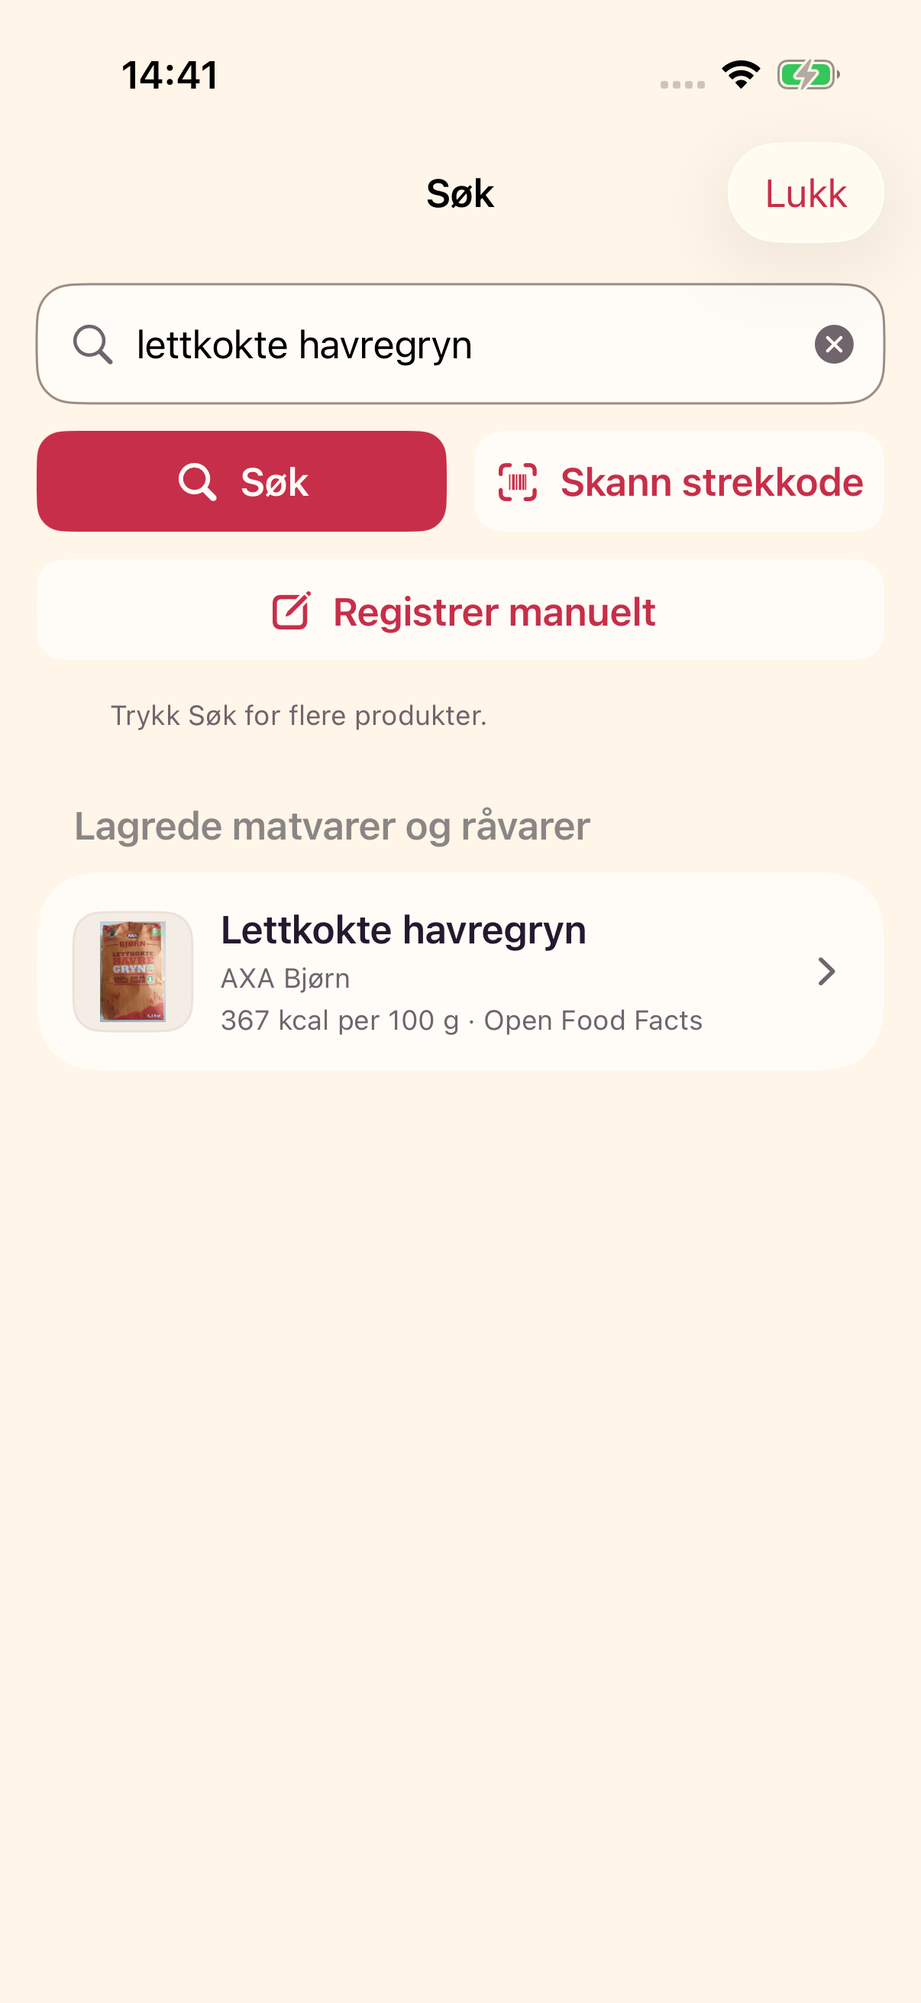
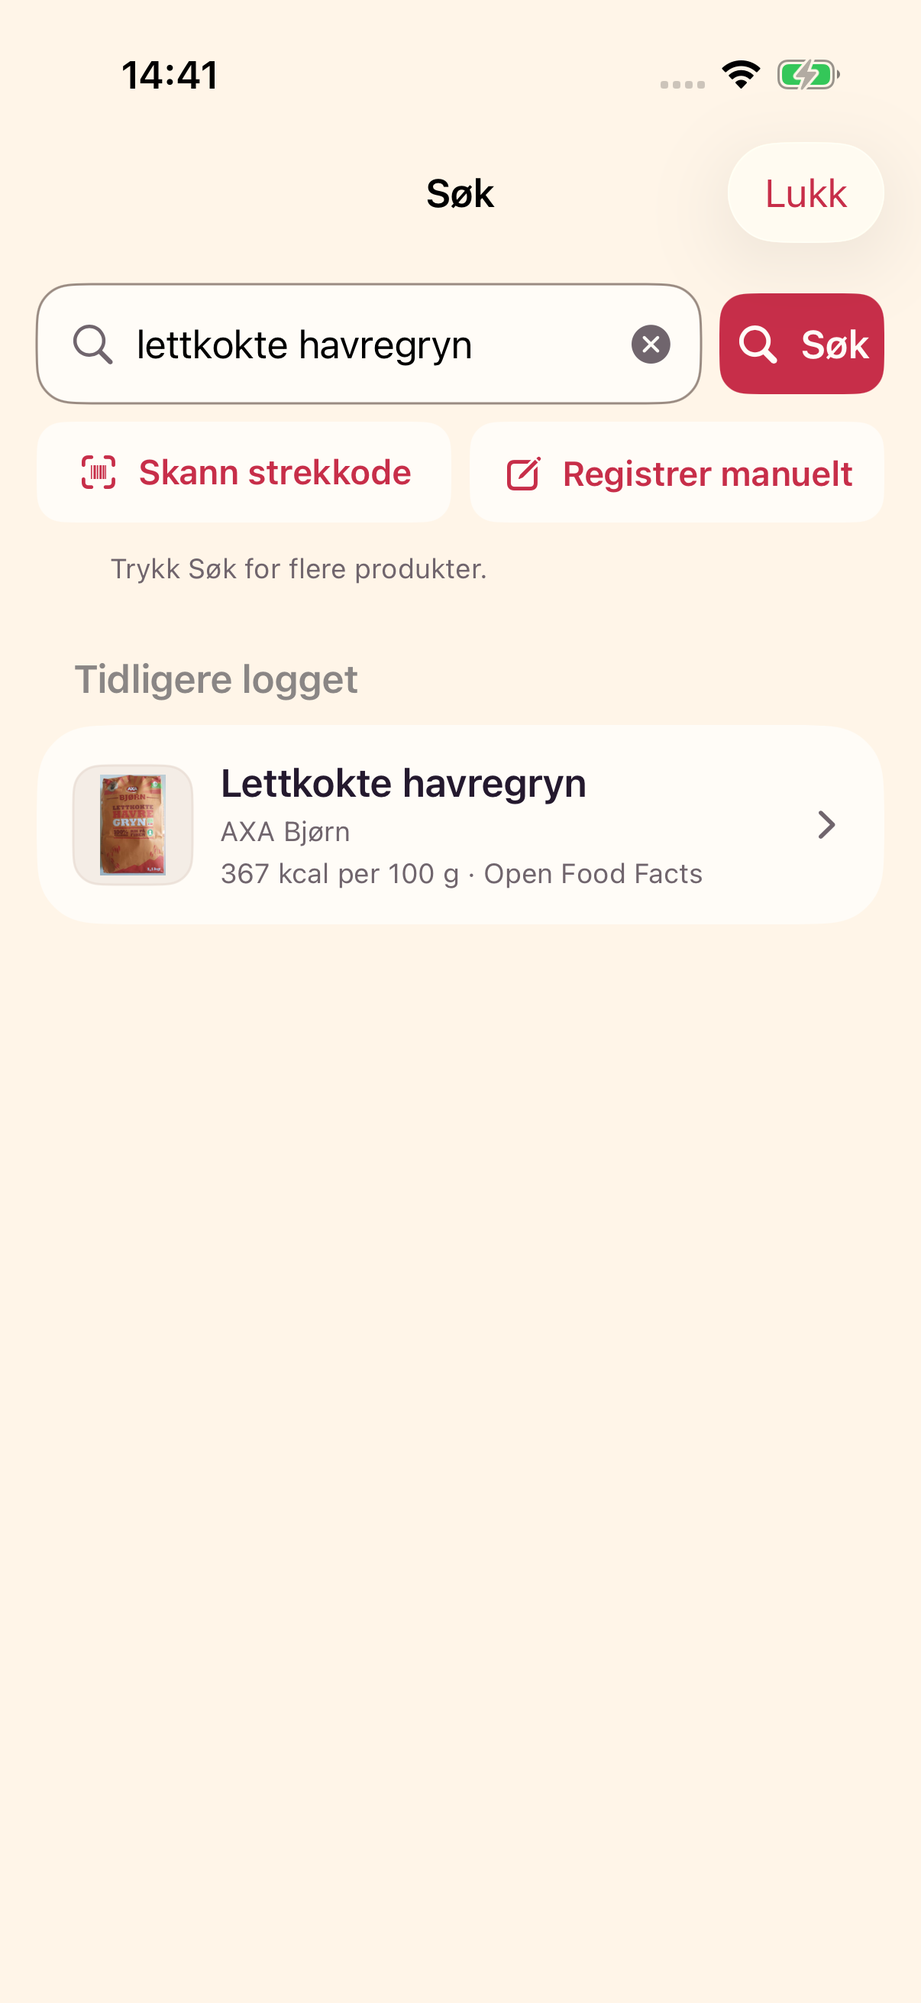
Update landing page to reflect current MatLogg app

diff --git a/matlogg-web/src/PrivacyPage.tsx b/matlogg-web/src/PrivacyPage.tsx
@@ -9,14 +9,15 @@ export default function PrivacyPage() {
     <header className="border-b"><div className="mx-auto flex max-w-3xl items-center justify-between gap-4 px-5 py-5"><a href="./" className="flex min-h-11 items-center gap-2 font-bold"><img src="./matlogg-logo.png" alt="" width="40" height="40" className="rounded-xl" />MatLogg</a><a href="./" className="btn-ghost">Til forsiden</a></div></header>
     <main id="main" className="mx-auto max-w-3xl px-5 py-12">
       <p className="eyebrow">Personvern</p><h1 className="mt-3 text-4xl font-bold tracking-tight">Personvernet ditt i MatLogg</h1>
-      <p className="mt-4 text-muted-foreground">Sist oppdatert: 8. oktober 2026</p>
+      <p className="mt-4 text-muted-foreground">Sist oppdatert: 2. november 2026</p>
       <p className="my-8 leading-relaxed">Denne siden beskriver nettsiden, lokal bruk av appen og valgfri konto. Betapåmelding er ikke åpnet. Skysynk og gjenoppretting mellom enheter er ikke tilgjengelig. Før nye tjenester tas i bruk, oppdaterer vi informasjonen om behandlingen.</p>
       <Section title="Hvem er ansvarlig?"><p>Nithusan Krishnasamymudali er behandlingsansvarlig for MatLogg, inkludert konto, nettsiden og henvendelser.</p><p>Kontakt: <a className="underline" href="mailto:nithusank.2002@gmail.com">nithusank.2002@gmail.com</a>. Unngå å sende matlogger, vekt eller andre helseopplysninger på vanlig e-post.</p></Section>
       <Section title="Når du besøker nettsiden"><p>Nettsiden har ingen analyseverktøy, reklamesporing, informasjonskapsler eller skjemaer som samler inn opplysninger. Det er ingen betapåmelding på siden. Demoens knapper bytter bare mellom appbilder; de registrerer ingen mat eller opplysninger. Bilder fra appen viser fiktive demodata.</p><p>Siden leveres gjennom GitHub Pages. Ved lasting mottar vertstjenesten tekniske opplysninger som IP-adresse og informasjon om forespørselen. GitHub beskriver sin behandling, lagring og eventuelle overføringer utenfor EØS i <a className="underline" href="https://docs.github.com/en/site-policy/privacy-policies/github-general-privacy-statement">sin personvernerklæring</a>. Vi har ikke et eget system for besøksstatistikk eller besøkslogger.</p></Section>
-      <Section title="Hva appen lagrer lokalt"><p>Du kan bruke MatLogg uten konto. Matlogger, mengder, måltider, vannregistreringer, favoritter, lagrede måltider, skannehistorikk og innstillinger lagres på iPhonen. Personlige detaljer, mål og vekt lagres dersom du velger å registrere dem. Fødselsdato er påkrevd dersom du velger å lagre Personlige detaljer i dagens appversjon; øvrige felt er valgfrie.</p><p>Opplysningene brukes til funksjonene du velger: logging, historikk, gjenbruk av måltider og oversikt. Vekt, mål og spisehistorikk kan være sensitive. Lokal logging lastes ikke automatisk opp; skysynk er deaktivert i den gjeldende versjonen. MatLogg tilbyr foreløpig ikke gjenoppretting eller synk mellom enheter.</p><p>Vi har ikke tilgang til matloggen som bare ligger på enheten din. Enhetens eventuelle sikkerhetskopier styres av dine Apple-/iOS-innstillinger.</p></Section>
+      <Section title="Hva appen lagrer lokalt"><p>Du kan bruke MatLogg uten konto. Matlogger, mengder, måltider, vannregistreringer, favoritter, lagrede måltider, skannehistorikk og innstillinger lagres på iPhonen. Personlige detaljer, mål og vekt lagres dersom du velger å registrere dem. Fødselsdato og øvrige felt i Personlige detaljer er valgfrie. Automatiske målforslag krever et komplett, støttet beregningsgrunnlag for voksne.</p><p>Opplysningene brukes til funksjonene du velger: logging, historikk, gjenbruk av måltider og oversikt. Vekt, mål og spisehistorikk kan være sensitive. Lokal logging lastes ikke automatisk opp; skysynk er deaktivert i den gjeldende versjonen. MatLogg tilbyr foreløpig ikke gjenoppretting eller synk mellom enheter.</p><p>Vi har ikke tilgang til matloggen som bare ligger på enheten din. Enhetens eventuelle sikkerhetskopier styres av dine Apple-/iOS-innstillinger.</p></Section>
       <Section title="Valgfri konto og innlogging"><p>MatLogg kan brukes uten konto. Hvis du oppretter konto med e-post og passord eller logger inn med Apple, bruker vi Supabase Auth til å håndtere e-postadresse, bruker-ID, innloggingsidentitet og sikker passordhåndtering. Vi mottar ikke Apple-passordet ditt og lagrer ikke passord i klartekst. Supabase brukes som databehandler for konto og autentisering.</p><p>Konto og autentisering behandles for å levere tjenesten (GDPR artikkel 6 nr. 1 bokstav b). En konto gir foreløpig ikke skybackup av matlogger, mål, vekt eller bilder. Et valgfritt visningsnavn og navn du deler med Apple, håndteres lokalt i appen; MatLogg sender ikke Apple-navnet til Supabase.</p><p>Skysynk av helseopplysninger er deaktivert. Før slik opplasting åpnes, må grunnlaget etter både artikkel 6 og artikkel 9 være avklart og dokumentert. Nødvendige valg eller uttrykkelig samtykke skal innhentes før opplasting dersom samtykke brukes.</p></Section>
-      <Section title="Matsøk og eksterne oppslag"><p>Råvarene fra Matvaretabellen følger med appen og søkes lokalt. Ved et aktivt søk etter merkevarer eller skanning sendes søketeksten eller strekkoden til Open Food Facts for å hente produktinformasjon. Søketekst sendes ikke for hvert tastetrykk. Fra GS1 Data Matrix brukes bare produktnummeret; lotnummer og dato sendes ikke.</p><p>Open Food Facts mottar også vanlig tilkoblingsinformasjon, som IP-adresse og appidentifikasjon. Selve matloggen, vekten og målene følger ikke med disse oppslagene. Se <a className="underline" href="https://world.openfoodfacts.org/privacy">Open Food Facts sin personvernerklæring</a>. Produktdata kan mellomlagres lokalt for raskere oppslag.</p></Section>
+      <Section title="Matsøk og eksterne oppslag"><p>Råvarene fra Matvaretabellen følger med appen og søkes lokalt. Ved et aktivt søk etter merkevarer eller skanning sendes søketeksten eller strekkoden til Open Food Facts for å hente produktinformasjon. Søketekst sendes ikke for hvert tastetrykk. Fra GS1 Data Matrix brukes bare produktnummeret; lotnummer og dato sendes ikke.</p><p>Open Food Facts mottar også vanlig tilkoblingsinformasjon, som IP-adresse og appidentifikasjon. Selve matloggen, vekten og målene følger ikke med disse oppslagene. Se <a className="underline" href="https://world.openfoodfacts.org/privacy">Open Food Facts sin personvernerklæring</a>. Produktdata kan mellomlagres lokalt for raskere oppslag. Eldre lagrede strekkodetreff kan oppdateres fra Open Food Facts når de brukes. Produktbilder kan hentes fra katalogens bildeserver når de ikke finnes i lokal cache; serveren mottar da IP-adressen og forespørselen om bildet.</p></Section>
       <Section title="Kamera, bilder og analyse"><p>Kameraet brukes når du starter skanning eller tar et produktbilde, etter iOS sin tillatelse. Du kan også velge ett bilde med systemets bildevelger. Produktbilder lagres lokalt, uten original fotometadata, og lastes ikke opp eller synkroniseres.</p><p>Det er ikke koblet inn et SDK for bruksanalyse eller krasjrapportering i den gjeldende appversjonen. Eventuelle valg i appen betyr derfor ikke at slike data sendes nå. Vi selger ikke personopplysninger og bruker dem ikke til annonsesporing.</p></Section>
+      <Section title="Når du deler et måltid"><p>Appen lager måltidskort lokalt med måltidsnavn, valgfritt bilde og næringsverdiene du velger å vise. Kortet inneholder ikke profilinformasjon, mål, vekt eller original fotometadata. MatLogg laster ikke kortet opp til en server. Du velger mottaker i iOS sitt delingsark; videre behandling følger tjenesten du deler til.</p><p>«Lagre bilde» ber bare om tillatelse til å legge kortet til i Bilder, uten å lese bildebiblioteket. Kopien ligger utenfor MatLogg og slettes ikke når appdata fjernes. Bruker du iCloud Bilder, kan Apple synkronisere kopien etter dine innstillinger.</p></Section>
       <Section title="Henvendelser, formål og behandlingsgrunnlag"><p>Hvis du kontakter oss, behandler vi e-postadresse og innholdet du sender for å svare og følge opp saken. Grunnlaget er vår berettigede interesse i å håndtere spørsmål om MatLogg (GDPR artikkel 6 nr. 1 bokstav f). Henvendelser om å inngå en avtale kan behandles for å gjennomføre tiltak på din forespørsel (bokstav b).</p><p>Vi ber ikke om helseopplysninger i henvendelser. Opplysninger som ikke trengs for oppfølging, skal fjernes. Korrespondanse beholdes bare så lenge den er nødvendig for å følge opp henvendelsen eller håndtere en konkret rettslig plikt eller pågående tvist.</p></Section>
       <Section title="Lagring, sletting og eksport"><p>Lokale appdata blir liggende til du sletter dem. Under Profil → Innstillinger kan du eksportere data for den aktive profilen. Uten konto velger du «Slett alle lokale data» for å fjerne logger, mål, bilder og personlige detaljer for profilen. Med konto betyr «Fjern lokale data» at data bare fjernes fra denne iPhonen; serverkontoen slettes ikke.</p><p>«Slett konto» sender en forespørsel til serveren. Når serveren bekrefter forespørselen, sperres innlogging, og lokale profildata fjernes. Serverkontoen og tilknyttede data, inkludert egne serverprodukter, forsøkes slettet permanent i samme forespørsel, uten fast ventetid. Ved tekniske feil prøver en slettejobb igjen hvert femte minutt. Bekreftet lokal opprydding som avbrytes, forsøkes igjen ved neste oppstart og kan fullføres fra velkomstskjermen uten innlogging.</p><p>Hvis serversvaret uteblir, kan kontostatus være usikker. Lokal sletting alene bekrefter ikke serversletting; kontakt oss for å kontrollere status. Ved lokal bruk uten konto har vi ingen serverkopi av matloggen å hente ut eller slette.</p><p>Eksporterte filer du selv har lagret eller delt, og enhetens sikkerhetskopier, må håndteres separat. Du kan også fjerne appens lokale lagring ved å slette appen i iOS; «Avlast app» beholder dataene. Sletting fra aktive serverdatabaser innebærer ikke nødvendigvis umiddelbar fysisk fjerning fra leverandørens sikkerhetskopier. Slike kopier skal være tilgangsbegrenset, utløpe etter fastsatt lagringstid, og tidligere slettinger skal gjenanvendes før en gjenopprettet database tas i bruk.</p></Section>
       <Section title="Rettighetene dine"><p>For personopplysninger vi behandler, kan du be om innsyn, retting, sletting og begrensning. Du kan protestere mot behandling basert på berettiget interesse og ha rett til dataportabilitet når vilkårene gjelder. Dersom en fremtidig funksjon bygger på samtykke, kan samtykket trekkes tilbake.</p><p>Send forespørselen til kontaktadressen over. Vi svarer normalt innen én måned og kan be om nødvendig bekreftelse på identiteten din. Du kan klage til <a className="underline" href="https://www.datatilsynet.no/">Datatilsynet</a>.</p></Section>

diff --git a/matlogg-web/src/App.tsx b/matlogg-web/src/App.tsx
@@ -33,10 +33,11 @@ function Modal({ open, onClose, title, children }: { open: boolean; onClose: () 
 
 const FAQ = [
   ["Er MatLogg tilgjengelig?", "MatLogg er under utvikling. Betatilgang og lansering er ikke åpnet ennå."],
-  ["Må jeg ha konto?", "Nei. MatLogg er laget for å kunne brukes lokalt på iPhonen uten konto."],
-  ["Fungerer det uten nett?", "Ja, lokal logging og lagrede matvarer fungerer uten nett. Oppslag av nye produkter kan kreve internett."],
+  ["Må jeg ha konto?", "Nei. Du kan starte med å logge mat på iPhonen uten konto. Innlogging er valgfritt og gir foreløpig ikke skybackup."],
+  ["Fungerer det uten nett?", "Ja. Råvarer fra Matvaretabellen følger med appen, og lokal logging, historikk og lagrede matvarer fungerer uten nett. Nye produktoppslag og produktbilder som ikke er mellomlagret, krever internett."],
   ["Må jeg sette mål?", "Nei. Mål er helt valgfrie. Du kan bruke MatLogg bare for oversikt."],
-  ["Hvilke enheter støttes?", "MatLogg utformes for iPhone med iOS 17 eller nyere."],
+  ["Kan jeg sikkerhetskopiere eller flytte loggen?", "MatLogg tilbyr ikke skybackup eller synk mellom enheter. Du kan eksportere en JSON-kopi fra Profil → Innstillinger, men den kan ikke importeres tilbake i appen. Data kan gå tapt hvis du sletter appen eller mister telefonen."],
+  ["Hvilke enheter støttes?", "MatLogg støtter iPhone med iOS 17 eller nyere. Appen er fortsatt under utvikling."],
 ];
 
 function Faq() {
@@ -137,7 +138,7 @@ export default function App() {
             <div className="meal-story-heading">
               <p className="eyebrow">Dine gjengangere</p>
               <h2 id="meal-story-title">Favorittfrokosten din.<br /><span>Klar igjen i morgen.</span></h2>
-              <p>Det du spiser ofte, trenger du ikke å legge inn fra bunnen hver gang. Lagre måltidet, juster mengdene og loggfør det på nytt.</p>
+              <p>Det du spiser ofte, trenger du ikke å legge inn fra bunnen hver gang. Lagre et måltid fra dagboken og loggfør det på nytt på valgt dato. Du kan også bruke «Loggfør igjen» for en tidligere matvare.</p>
               <a href="#slik" className="btn-ghost mt-6">Se hvordan du logger <span aria-hidden>↗</span></a>
             </div>
             <div className="meal-story-pictures">
@@ -151,21 +152,36 @@ export default function App() {
               </figure>
             </div>
             <div className="meal-story-app">
-              <div><p className="eyebrow">Fra favoritt til matlogg</p><h3>Samme måltid.<br />En ny dag.</h3><p>Lagrede måltider ligger klare i appen. Du velger selv hva og hvor mye du vil loggføre.</p><p className="meal-image-note">Måltidsbildene er AI-genererte illustrasjoner. Appbildet viser fiktive demodata.</p></div>
+              <div><p className="eyebrow">Fra favoritt til matlogg</p><h3>Samme måltid.<br />En ny dag.</h3><p>Lagrede måltider ligger klare i appen. Velg måltid og dato før du lagrer en ny registrering. Du kan angre rett etterpå.</p><p className="meal-image-note">Måltidsbildene er AI-genererte illustrasjoner. Appbildet viser fiktive demodata.</p></div>
               <AppScreenshot screen="meals" label="Lagrede måltider – klare til gjenbruk" />
             </div>
           </section>
-          <Feature flip eyebrow="Oversikt" title="Oversikt på dine premisser" visual={
+          <Feature flip eyebrow="Utvikling" title="Oversikt på dine premisser" visual={
             <AppScreenshot screen="overview" label="Utvikling – historikk og næringsoversikt" />
           }>
             <p>Se dagens energi og makronæringsstoffer, og følg oversikten gjennom uken.</p>
-            <p>Mål er valgfrie. Ingen røde tall, ingen «bra» eller «dårlig» mat – bare tydelig oversikt.</p>
+            <p>Mål er valgfrie og settes under Profil → Daglige mål. Du kan også registrere vekt hvis du ønsker det.</p>
           </Feature>
+          <div className="grid gap-6 sm:grid-cols-2">
+            {[
+              ["Mengde og porsjoner", "Logg i gram eller milliliter, eller velg antall når matvaren har en dokumentert porsjon. Mengde og næringsgrunnlag følger registreringen."],
+              ["En dagbok du kan endre", "Bla mellom datoer, rediger eller flytt matvarer mellom måltider. Velg flere registreringer for å lagre et måltid eller slette samlet, med mulighet til å angre."],
+              ["Matvarer med kilde", "Søk i råvarer fra Matvaretabellen og merkevarer fra Open Food Facts. Produktkortet viser næringsgrunnlaget og, når data finnes, informasjon om Nutri-Score og prosessering."],
+              ["Dine faste matvarer", "Bruk favoritter, nylige matvarer og tidligere treff i søket. Finner du ikke varen, kan du registrere den manuelt og beholde den lokalt."],
+              ["Vann i hverdagen", "Registrer glass med vann fra Hjem. Appen teller glass uten å anta hvor mange milliliter glasset ditt rommer."],
+              ["Del et måltidskort", "Lag et bildekort fra et lagret måltid. Velg stil, format og hvilke næringsverdier som skal vises. Forhåndsvis kortet, del det eller lagre det i Bilder."],
+            ].map(([title, text]) => (
+              <article key={title} className="benefit-card rounded-3xl border bg-card p-7">
+                <h3 className="text-xl font-semibold">{title}</h3>
+                <p className="mt-3 text-muted-foreground">{text}</p>
+              </article>
+            ))}
+          </div>
           <Feature eyebrow="Lokalt" title="På iPhonen. Også uten nett." visual={
             <AppScreenshot screen="diary" label="Dagbok – dagens måltider lagret på iPhonen" />
           }>
             <p>Loggen og lagrede matvarer ligger på iPhonen din, så logging av det du allerede har fungerer uten nett.</p>
-            <p>Oppslag av nye produkter kan kreve internett. Synkronisering mellom enheter og sikkerhetskopi er ikke en del av MVP-en.</p>
+            <p>Oppslag av nye produkter kan kreve internett. Appen tilbyr ikke skybackup eller synk mellom enheter. Data kan gå tapt hvis du sletter appen eller mister telefonen.</p>
             <p className="text-sm">Norske råvarer fra Matvaretabellen og produktoppslag fra Open Food Facts.</p>
           </Feature>
         </section>
@@ -183,7 +199,7 @@ export default function App() {
 
       <footer className="border-t">
         <div className="mx-auto flex max-w-6xl flex-col gap-4 px-5 py-8 sm:flex-row sm:items-center sm:justify-between">
-          <div className="flex items-center gap-3"><Logo /><span className="rounded-full border px-2.5 py-0.5 text-xs text-muted-foreground">Prototype</span></div>
+          <div className="flex items-center gap-3"><Logo /><span className="rounded-full border px-2.5 py-0.5 text-xs text-muted-foreground">Under utvikling</span></div>
           <div className="flex flex-wrap gap-2">
             <a href="./personvern.html" className="flex min-h-11 items-center px-3 text-sm text-muted-foreground hover:text-foreground">Personvern</a>
             <a href="./personvern.html#bildekilder" className="flex min-h-11 items-center px-3 text-sm text-muted-foreground hover:text-foreground">Bildekilder</a>

diff --git a/matlogg-web/src/components/DemoApp.tsx b/matlogg-web/src/components/DemoApp.tsx
@@ -3,7 +3,7 @@ import { AppScreenshot } from "./AppScreenshot";
 
 const STEPS = [
   { tab: "Søk", screen: "flow-search", title: "Søk eller skann", text: "Finn matvaren du vil loggføre. Her søker vi etter havregryn.", label: "Søk – havregryn i appens matsøk" },
-  { tab: "Mengde", screen: "flow-amount", title: "Velg mengde", text: "Kontroller matvaren, mengden og måltidet før du legger den til.", label: "Mengde – produktvisning før logging" },
+  { tab: "Mengde", screen: "flow-amount", title: "Velg mengde", text: "Kontroller mengde, enhet, måltid og dato. Dokumenterte porsjoner kan velges der de finnes.", label: "Mengde – produktvisning før logging" },
   { tab: "Logg", screen: "flow-log", title: "Se maten i loggen", text: "Registreringen vises i måltidsloggen etter at den er lagret på enheten.", label: "Logg – måltidet etter registrering" },
 ] as const;
 

diff --git a/MatLoggUITests/LandingCaptureUITests.swift b/MatLoggUITests/LandingCaptureUITests.swift
@@ -65,9 +65,11 @@ final class LandingCaptureUITests: XCTestCase {
         XCTAssertTrue(loggedOats.waitForExistence(timeout: 10))
         capture("flow-log", app)
         let closeReceipt = app.buttons["Lukk bekreftelse"]
-        XCTAssertTrue(closeReceipt.waitForExistence(timeout: 5))
-        closeReceipt.tap()
-        XCTAssertFalse(closeReceipt.exists)
+        // The receipt may expire while XCTest takes the preceding screenshot.
+        // Wait for its normal dismissal instead of racing its four-second timer.
+        let receiptDismissed = XCTNSPredicateExpectation(
+            predicate: NSPredicate(format: "exists == false"), object: closeReceipt)
+        XCTAssertEqual(XCTWaiter.wait(for: [receiptDismissed], timeout: 12), .completed)
         capture("diary", app)
 
         // Reopen the remembered 60 g amount without focusing the input field.

diff --git a/matlogg-web/README.md b/matlogg-web/README.md
@@ -1,6 +1,6 @@
 # MatLogg landingsside
 
-Selvstendig kopi av MatLoggs Lovable-prototype. React, Vite og Tailwind; ingen Lovable-konto, runtime, database, analyse eller betapåmelding kreves. De statiske appvisningene er faktiske simulatorbilder fra den lokale utviklingsversjonen, tatt 2026-10-08 med verifisert demomodus (fiktive data). Bildene ligger i `public/screenshots/`. Søk/Mengde/Logg-knappene bytter mellom ekte bilder av én loggingflyt; siden simulerer ikke søk eller logging.
+Statisk presentasjonsside for dagens MatLogg-app, med utgangspunkt i Lovable-prototypen. React, Vite og Tailwind; ingen Lovable-konto, runtime, database, analyse eller betapåmelding kreves. De statiske appvisningene er faktiske simulatorbilder fra den lokale utviklingsversjonen, tatt 2026-11-02 med verifisert demomodus (fiktive data). Bildene ligger i `public/screenshots/`. Søk/Mengde/Logg-knappene bytter mellom ekte bilder av én loggingflyt; siden simulerer ikke søk eller logging.
 
 Krever Node.js 22.12 eller nyere.
 
@@ -15,3 +15,5 @@ Prototypen er publisert på https://nithusan.no/MatLogg/ via GitHub Pages. Workf
 
 Designkilde: Lovable-prosjekt `84794cb2-b1b1-4308-a80f-f740a521b073`, commit `900d926778abd72bc2a5fddf2dddffc906487660`. Kopiert via fil-API, tilpasset til statisk bygging uten plattformkode.
 
+
+Innholdet er kontrollert mot appkoden 2026-11-02: lokal bruk uten konto, dokumenterte porsjoner, gjenlogging, flervalg i dagboken, vann, valgfrie mål og måltidskort. Personvernsiden omtaler valgfri fødselsdato, eksterne produktbilder og brukerinitiert deling/lagring av måltidskort. Nettsiden endrer ingen dataflyt i appen.

diff --git a/docs/testing.md b/docs/testing.md
@@ -617,7 +617,8 @@ foran `xcodebuild test` med `-only-testing:MatLoggUITests/LandingCaptureUITests`
 Testen tilbakestiller bare demoen og lagrer åtte navngitte `landing-*`-bilder
 i xcresult. Den logger 60 g havregryn til dagens frokost én gang. Alle bildene tas uten
 tastatur. Søkebildet bruker et presist produktsøk; et eget dagbokbilde tas
-etter at bekreftelsen er lukket. Mengdebildet tas ved å åpne produktet igjen med den huskede
+etter at bekreftelsen har lukket seg automatisk. Opptaket venter på at den
+forsvinner, siden den kan utløpe mens forrige skjermbilde tas. Mengdebildet tas ved å åpne produktet igjen med den huskede
 mengden på 60 g, uten å fokusere feltet eller logge en ekstra registrering.
 Eksporter vedlegg med `xcrun xcresulttool export attachments` og kontroller
 bildene visuelt før de erstatter `matlogg-web/public/screenshots/`.
